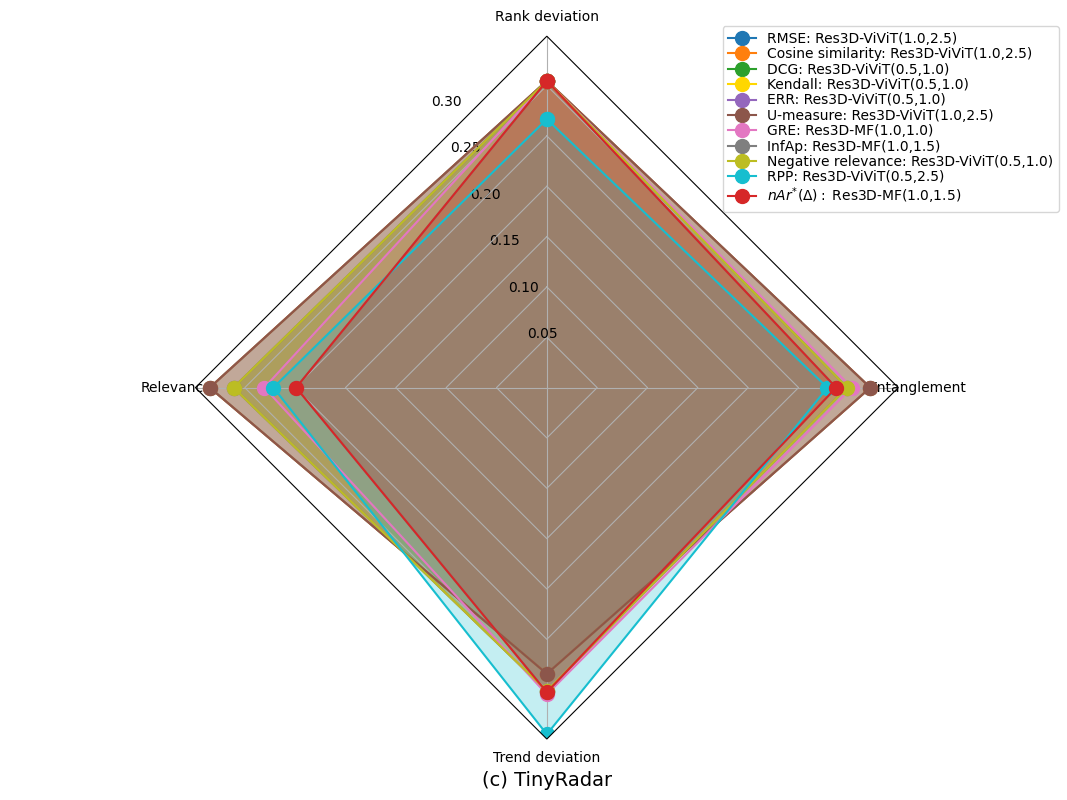
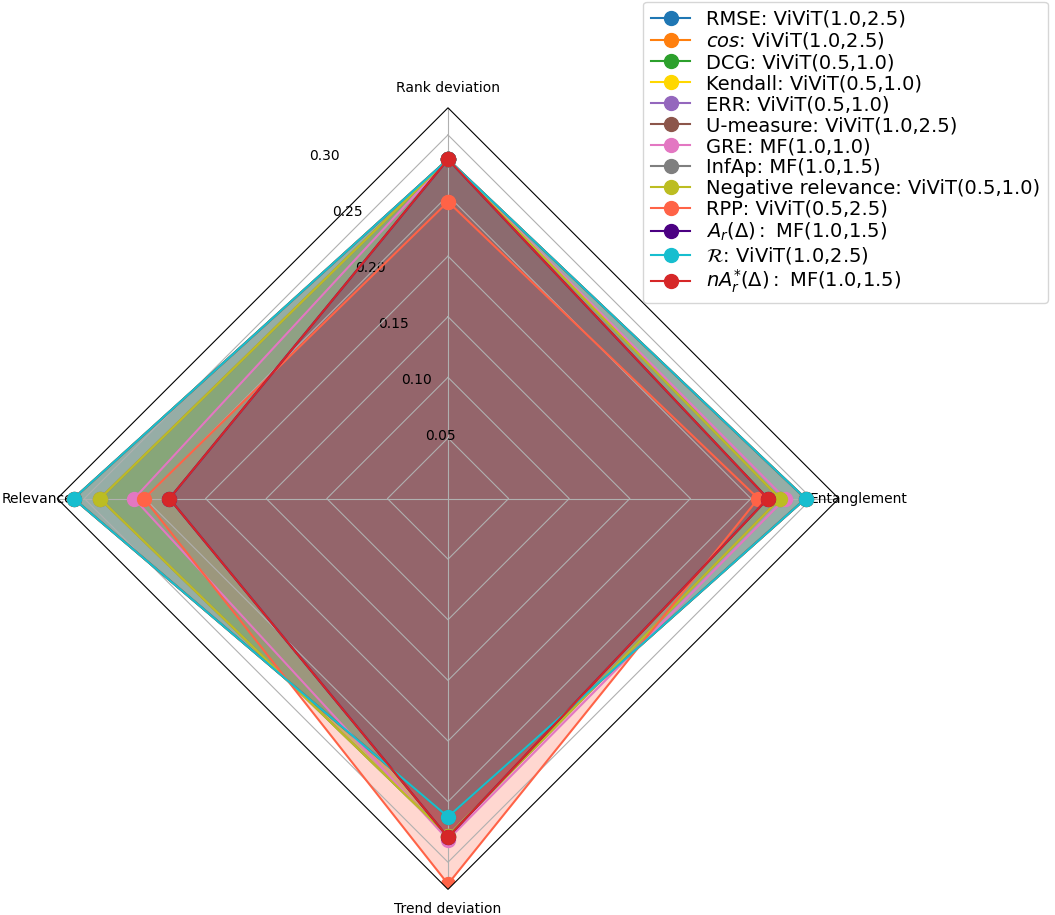
Added new images

diff --git a/radar_charts.py b/radar_charts.py
@@ -12,13 +12,135 @@ kappa = 1
 lambda_scale = 2
 nu = 1
 
-e1_val = 100 - 16.45
-e2_val = 100 - 23.36 
-e1 = np.array([16.38,22.19,21.60,11.61,9.24,8.95,14.58,14.45,17.30,9.25,35.47])
-e2 = np.array([21.12,26.42,32.30,20.34,18.18,17.33,19.81,24.45,25.70,11.52,39.81])
-eer_values = (e1_val*e1+e2_val*e2)/(e1_val+e2_val)
+dataset_curr = 'Tiny'
 
-embedding_list_full = ['./Embeddings/DGBQA_CGID_Res3D-ViViT_pt5-1_Tiny.npz',
+if(dataset_curr == 'Soli'):
+    y_dev_path = './Embeddings/y_dev_DeltaDistance_SOLI.npz'
+    y_dev_id_path = './Embeddings/y_dev_id_DeltaDistance_SOLI.npz'
+    G_total = 11
+    I_total = 10
+    eer_values = np.array([15.60,14.33,8.98,14.33,4.83,4.74,7.13,7.60,8.15,5.94,18.63])
+
+if(dataset_curr == 'HandLogin'):
+    y_dev_path = './Embeddings/y_dev_DGBQA_Seen_HandLogin.npz'
+    y_dev_id_path = './Embeddings/y_dev_id_DGBQA_Seen_HandLogin.npz'
+    G_total = 4
+    I_total = 16
+    eer_values = np.array([0.44,1.29,4.89,1.05])
+
+if(dataset_curr == 'Tiny'):
+    y_dev_path = './Embeddings/y_dev_DGBQA_Seen_Tiny.npz'
+    y_dev_id_path = './Embeddings/y_dev_id_DGBQA_Seen_Tiny.npz'
+    G_total = 11
+    I_total = 26
+
+    e1_val = 100 - 16.45
+    e2_val = 100 - 23.36 
+    e1 = np.array([16.38,22.19,21.60,11.61,9.24,8.95,14.58,14.45,17.30,9.25,35.47])
+    e2 = np.array([21.12,26.42,32.30,20.34,18.18,17.33,19.81,24.45,25.70,11.52,39.81])
+    eer_values = (e1_val*e1+e2_val*e2)/(e1_val+e2_val)
+    eer_values = eer_values
+
+##### Defining essentials
+embedding_list_soli = ['./Embeddings/DGBQA_CGID_Res3D-ViViT_pt5-pt5_SOLI.npz',
+                       './Embeddings/DGBQA_CGID_Res3D-ViViT_pt5-1_SOLI.npz',
+                       './Embeddings/DGBQA_CGID_Res3D-ViViT_pt5-1pt5_SOLI.npz',
+                       './Embeddings/DGBQA_CGID_Res3D-ViViT_1-pt5_SOLI.npz',
+                       './Embeddings/DGBQA_CGID_Res3D-ViViT_1-1_SOLI.npz',
+                       './Embeddings/DGBQA_CGID_Res3D-ViViT_1-1pt5_SOLI.npz',
+                       './Embeddings/DGBQA_CGID_Res3D-ViViT_1pt5-pt5_SOLI.npz',
+                       './Embeddings/DGBQA_CGID_Res3D-ViViT_1pt5-1_SOLI.npz',
+                       './Embeddings/DGBQA_CGID_Res3D-ViViT_1pt5-1pt5_SOLI.npz',
+                        './Embeddings/DGBQA_CGID_Res3D-MF_pt5-pt5_SOLI.npz',
+                        './Embeddings/DGBQA_CGID_Res3D-MF_pt5-1_SOLI.npz',
+                        './Embeddings/DGBQA_CGID_Res3D-MF_pt5-1pt5_SOLI.npz',
+                        './Embeddings/DGBQA_CGID_Res3D-MF_1-pt5_SOLI.npz',
+                        './Embeddings/DGBQA_CGID_Res3D-MF_1-1_SOLI.npz',
+                        './Embeddings/DGBQA_CGID_Res3D-MF_1-1pt5_SOLI.npz',
+                        './Embeddings/DGBQA_CGID_Res3D-MF_1pt5-pt5_SOLI.npz',
+                        './Embeddings/DGBQA_CGID_Res3D-MF_1pt5-1_SOLI.npz',
+                        './Embeddings/DGBQA_CGID_Res3D-MF_1pt5-1pt5_SOLI.npz',
+                        './Embeddings/MS_TPN_pt5-pt5_SOLI.npz',
+                        './Embeddings/MS_TPN_pt5-1_SOLI.npz',
+                        './Embeddings/MS_TPN_pt5-1pt5_SOLI.npz',
+                        './Embeddings/MS_TPN_1-pt5_SOLI.npz',
+                        './Embeddings/MS_TPN_1-1_SOLI.npz',
+                        './Embeddings/MS_TPN_1-1pt5_SOLI.npz',
+                        './Embeddings/MS_TPN_1pt5-pt5_SOLI.npz',
+                        './Embeddings/MS_TPN_1pt5-1_SOLI.npz',
+                        './Embeddings/MS_TPN_1pt5-1pt5_SOLI.npz',
+                        './Embeddings/MS_TAM_pt5-pt5_SOLI.npz',
+                        './Embeddings/MS_TAM_1-pt5_SOLI.npz',
+                        './Embeddings/MS_TAM_1-1_SOLI.npz',
+                        './Embeddings/MS_MViT_pt5-pt5_SOLI.npz',
+                        './Embeddings/MS_MViT_pt5-1_SOLI.npz',
+                        './Embeddings/MS_MViT_pt5-1pt5_SOLI.npz',
+                        './Embeddings/MS_MViT_1-pt5_SOLI.npz',
+                        './Embeddings/MS_MViT_1-1_SOLI.npz',
+                        './Embeddings/MS_MViT_1-1pt5_SOLI.npz',
+                        './Embeddings/MS_MViT_1pt5-pt5_SOLI.npz',
+                        './Embeddings/MS_MViT_1pt5-1_SOLI.npz',
+                        './Embeddings/MS_MViT_1pt5-1pt5_SOLI.npz']
+dataset_list_soli = ['Soli']*39
+
+embedding_list_hl = ['./Embeddings/MS_ViViT_pt5-pt5_HandLogin.npz',
+                       './Embeddings/MS_ViViT_pt5-1_HandLogin.npz',
+                       './Embeddings/MS_ViViT_pt5-1pt5_HandLogin.npz',
+                       './Embeddings/MS_ViViT_pt5-2pt5_HandLogin.npz',
+                       './Embeddings/MS_ViViT_1-pt5_HandLogin.npz',
+                       './Embeddings/MS_ViViT_1-1_HandLogin.npz',
+                       './Embeddings/MS_ViViT_1-1pt5_HandLogin.npz',
+                       './Embeddings/MS_ViViT_1-2pt5_HandLogin.npz',
+                       './Embeddings/MS_ViViT_1pt5-pt5_HandLogin.npz',
+                       './Embeddings/MS_ViViT_1pt5-1_HandLogin.npz',
+                       './Embeddings/MS_ViViT_1pt5-1pt5_HandLogin.npz',
+                       './Embeddings/MS_ViViT_1pt5-2pt5_HandLogin.npz',
+                        './Embeddings/Test/DGBQA_CGID_Res3D-MF_1-pt5_HandLogin.npz',
+                        './Embeddings/Test/DGBQA_CGID_Res3D-MF_1-1_HandLogin.npz',
+                        './Embeddings/Test/DGBQA_CGID_Res3D-MF_1-1pt5_HandLogin.npz',
+                        './Embeddings/Test/DGBQA_CGID_Res3D-MF_1-2pt5_HandLogin.npz',
+                        './Embeddings/Test/DGBQA_CGID_Res3D-MF_1pt5-pt5_HandLogin.npz',
+                        './Embeddings/Test/DGBQA_CGID_Res3D-MF_1pt5-1_HandLogin.npz',
+                        './Embeddings/Test/DGBQA_CGID_Res3D-MF_1pt5-1pt5_HandLogin.npz',
+                        './Embeddings/Test/DGBQA_CGID_Res3D-MF_1pt5-2pt5_HandLogin.npz',
+                        './Embeddings/MS_TPN_pt5-pt5_HandLogin.npz',
+                        './Embeddings/MS_TPN_pt5-1_HandLogin.npz',
+                        './Embeddings/MS_TPN_pt5-1pt5_HandLogin.npz',
+                        './Embeddings/MS_TPN_pt5-2pt5_HandLogin.npz',
+                        './Embeddings/MS_TPN_1-pt5_HandLogin.npz',
+                        './Embeddings/MS_TPN_1-1pt5_HandLogin.npz',
+                        './Embeddings/MS_TPN_1-2pt5_HandLogin.npz',
+                        './Embeddings/MS_TPN_1pt5-pt5_HandLogin.npz',
+                        './Embeddings/MS_TPN_1pt5-1_HandLogin.npz',
+                        './Embeddings/MS_TPN_1pt5-1pt5_HandLogin.npz',
+                        './Embeddings/MS_TPN_1pt5-2pt5_HandLogin.npz',
+                        './Embeddings/MS_TAM_pt5-pt5_HandLogin.npz',
+                        './Embeddings/MS_TAM_pt5-1_HandLogin.npz',
+                        './Embeddings/MS_TAM_pt5-1pt5_HandLogin.npz',
+                        './Embeddings/MS_TAM_pt5-2pt5_HandLogin.npz',
+                        './Embeddings/MS_TAM_1-pt5_HandLogin.npz',
+                        './Embeddings/MS_TAM_1-1_HandLogin.npz',
+                        './Embeddings/MS_TAM_1-1pt5_HandLogin.npz',
+                        './Embeddings/MS_TAM_1-2pt5_HandLogin.npz',
+                        './Embeddings/MS_TAM_1pt5-pt5_HandLogin.npz',
+                        './Embeddings/MS_TAM_1pt5-1_HandLogin.npz',
+                        './Embeddings/MS_TAM_1pt5-1pt5_HandLogin.npz',
+                        './Embeddings/MS_TAM_1pt5-2pt5_HandLogin.npz',
+                        './Embeddings/MS_MViT_pt5-pt5_HandLogin.npz',
+                        './Embeddings/MS_MViT_pt5-1_HandLogin.npz',
+                        './Embeddings/MS_MViT_pt5-1pt5_HandLogin.npz',
+                        './Embeddings/MS_MViT_pt5-2pt5_HandLogin.npz',
+                        './Embeddings/MS_MViT_1-pt5_HandLogin.npz',
+                        './Embeddings/MS_MViT_1-1_HandLogin.npz',
+                        './Embeddings/MS_MViT_1-1pt5_HandLogin.npz',
+                        './Embeddings/MS_MViT_1-2pt5_HandLogin.npz',
+                        './Embeddings/MS_MViT_1pt5-pt5_HandLogin.npz',
+                        './Embeddings/MS_MViT_1pt5-1_HandLogin.npz',
+                        './Embeddings/MS_MViT_1pt5-1pt5_HandLogin.npz',
+                        './Embeddings/MS_MViT_1pt5-2pt5_HandLogin.npz']
+dataset_list_hl = ['HandLogin']*55
+
+embedding_list_tiny = ['./Embeddings/DGBQA_CGID_Res3D-ViViT_pt5-1_Tiny.npz',
                        './Embeddings/DGBQA_CGID_Res3D-ViViT_pt5-1pt5_Tiny.npz',
                        './Embeddings/DGBQA_CGID_Res3D-ViViT_pt5-2pt5_Tiny.npz',
                        './Embeddings/DGBQA_CGID_Res3D-ViViT_1-1_Tiny.npz',
@@ -30,46 +152,66 @@ embedding_list_full = ['./Embeddings/DGBQA_CGID_Res3D-ViViT_pt5-1_Tiny.npz',
                        './Embeddings/MS_TAM_1-1_Tiny.npz',
                        './Embeddings/MS_TAM_1-1pt5_Tiny.npz',
                        './Embeddings/MS_TAM_1-2pt5_Tiny.npz']
-
-dataset_list = ['Tiny']*12
-y_dev_path = './Embeddings/y_dev_DGBQA_Seen_Tiny.npz'
-y_dev_id_path = './Embeddings/y_dev_id_DGBQA_Seen_Tiny.npz'
+dataset_list_tiny = ['Tiny']*12
 
 model_list = []
 
-#for measure in ['euclid','corr','DCG','Kendall','ERR','U','GRE','infAp','NegRel','RPP','Ar*']:
-#    model_list.append(select_model(embedding_list_full,
-#                                   dataset_list,
-#                                   measure
-#                                   ))
-#print(model_list)
+for measure in ['r','R','psi','Cd','Ar','ArCd','Ar_psi','Cd_psi','Ar*']:
+    model_list.append(select_model(embedding_list_tiny,
+                                   dataset_list_tiny,
+                                   measure
+                                   ))
+print(model_list)
 
-#model_list = ['./Embeddings/MS_TPN_1pt5-1_SOLI.npz', './Embeddings/MS_TPN_1pt5-1_SOLI.npz', './Embeddings/DGBQA_CGID_Res3D-ViViT_1-1_SOLI.npz', './Embeddings/DGBQA_CGID_Res3D-ViViT_1pt5-1_SOLI.npz', './Embeddings/DGBQA_CGID_Res3D-MF_1-1_SOLI.npz', './Embeddings/DGBQA_CGID_Res3D-MF_1-1pt5_SOLI.npz', './Embeddings/DGBQA_CGID_Res3D-MF_1pt5-pt5_SOLI.npz', './Embeddings/DGBQA_CGID_Res3D-ViViT_1pt5-pt5_SOLI.npz', './Embeddings/DGBQA_CGID_Res3D-ViViT_1-1pt5_SOLI.npz', './Embeddings/MS_MViT_pt5-1_SOLI.npz', './Embeddings/MS_MViT_pt5-1_SOLI.npz']
-model_list = ['./Embeddings/DGBQA_CGID_Res3D-ViViT_1-2pt5_Tiny.npz', './Embeddings/DGBQA_CGID_Res3D-ViViT_1-2pt5_Tiny.npz', './Embeddings/DGBQA_CGID_Res3D-ViViT_pt5-1_Tiny.npz', './Embeddings/DGBQA_CGID_Res3D-ViViT_pt5-1_Tiny.npz', './Embeddings/DGBQA_CGID_Res3D-ViViT_pt5-1_Tiny.npz', './Embeddings/DGBQA_CGID_Res3D-ViViT_1-2pt5_Tiny.npz', './Embeddings/MS_MF_1-1_Tiny.npz', './Embeddings/MS_MF_1-1pt5_Tiny.npz', './Embeddings/DGBQA_CGID_Res3D-ViViT_pt5-1_Tiny.npz', './Embeddings/DGBQA_CGID_Res3D-ViViT_pt5-2pt5_Tiny.npz', './Embeddings/MS_MF_1-1pt5_Tiny.npz']
+#model_list = ['./Embeddings/MS_TPN_1pt5-1_SOLI.npz', 
+#              './Embeddings/MS_TPN_1pt5-1_SOLI.npz', 
+#              './Embeddings/DGBQA_CGID_Res3D-ViViT_1-1_SOLI.npz', 
+#              './Embeddings/DGBQA_CGID_Res3D-ViViT_1pt5-1_SOLI.npz', 
+#              './Embeddings/DGBQA_CGID_Res3D-MF_1-1_SOLI.npz', 
+#              './Embeddings/DGBQA_CGID_Res3D-MF_1-1pt5_SOLI.npz', 
+#              './Embeddings/DGBQA_CGID_Res3D-MF_1pt5-pt5_SOLI.npz', 
+#              './Embeddings/DGBQA_CGID_Res3D-ViViT_1pt5-pt5_SOLI.npz', 
+#              './Embeddings/DGBQA_CGID_Res3D-ViViT_1-1pt5_SOLI.npz', 
+#              './Embeddings/MS_MViT_pt5-1_SOLI.npz',
+#              './Embeddings/DGBQA_CGID_Res3D-ViViT_1pt5-pt5_SOLI.npz',
+#              './Embeddings/DGBQA_CGID_Res3D-MF_1pt5-pt5_SOLI.npz',
+#              './Embeddings/MS_MViT_pt5-1_SOLI.npz']
+
+#model_list = ['./Embeddings/DGBQA_CGID_Res3D-ViViT_1-2pt5_Tiny.npz', 
+#              './Embeddings/DGBQA_CGID_Res3D-ViViT_1-2pt5_Tiny.npz', 
+#              './Embeddings/DGBQA_CGID_Res3D-ViViT_pt5-1_Tiny.npz', 
+#              './Embeddings/DGBQA_CGID_Res3D-ViViT_pt5-1_Tiny.npz', 
+#              './Embeddings/DGBQA_CGID_Res3D-ViViT_pt5-1_Tiny.npz', 
+#              './Embeddings/DGBQA_CGID_Res3D-ViViT_1-2pt5_Tiny.npz', 
+#              './Embeddings/MS_MF_1-1_Tiny.npz', 
+#              './Embeddings/MS_MF_1-1pt5_Tiny.npz', 
+#              './Embeddings/DGBQA_CGID_Res3D-ViViT_pt5-1_Tiny.npz', 
+#              './Embeddings/DGBQA_CGID_Res3D-ViViT_pt5-2pt5_Tiny.npz', 
+#              './Embeddings/DGBQA_CGID_Res3D-ViViT_1-2pt5_Tiny.npz',
+#              './Embeddings/MS_MF_1-1pt5_Tiny.npz']
+              
 data = get_data(model_list,
                 y_dev_path,
                 y_dev_id_path,
                 eer_values,
-                11,
-                26,
+                G_total,
+                I_total,
                 alpha=2,
                 beta=0.75,
                 lambda_scale=2,
                 kappa=1,
                 nu=1,
-                num_entries=11)
+                num_entries=9)
 N = 4
 theta = radar_factory(N, frame='polygon')
 colors = ['tab:blue',
           'tab:orange',
           'tab:green',
-          'gold',
           'tab:purple',
-          'tab:brown',
-          'tab:pink',
           'tab:gray',
           'tab:olive',
-          'tab:cyan',
+          'indigo',
+          'tab:cyan',  
           'tab:red']
 spoke_labels = data.pop(0)
 #print(data)
@@ -83,18 +225,15 @@ for d, color in zip(data, colors):
 ax.set_varlabels(spoke_labels)
 ax.set_xlabel('(c) TinyRadar',fontsize=14)
 
-labels = ('RMSE:'+' Res3D-ViViT(1.0,2.5)',
-          'Cosine similarity:'+' Res3D-ViViT(1.0,2.5)',
-          'DCG:'+' Res3D-ViViT(0.5,1.0)',
-          'Kendall:'+' Res3D-ViViT(0.5,1.0)',
-          'ERR:'+' Res3D-ViViT(0.5,1.0)',
-          'U-measure:'+' Res3D-ViViT(1.0,2.5)',
-          'GRE:'+' Res3D-MF(1.0,1.0)',
-          'InfAp:'+' Res3D-MF(1.0,1.5)',
-          'Negative relevance:'+' Res3D-ViViT(0.5,1.0)',
-          'RPP:'+' Res3D-ViViT(0.5,2.5)',
-          '$nAr^{*}(\Delta):$'+' Res3D-MF(1.0,1.5)'
-          )
+labels = ['$\\mathcal{r}$: ViViT(0.5,1.5)',
+          '$\\mathcal{R}$: ViViT(1.0,2.5)',
+          '$\\psi$: TAM(1.0,1.0)',
+          '$C_{d}$: ViViT(0.5,2.5)',
+          '$A_r(\Delta)$: MF(1.0,1.5)',
+          '$A_r(\Delta)*\\bar{O}$: MF(1.0,1.5)',
+          '$A_r(\Delta)*\\bar{\psi}$: MF(1.0,1.5)',
+          '$\\bar{\psi}*\\bar{O}$: MF(1.0,1.5)',
+          '$nA_r^{*}(\Delta)$: MF(1.0,1.5)']
 
 legend = ax.legend(labels,
                    loc=(0.75,0.75),

diff --git a/TableGen.py b/TableGen.py
@@ -126,7 +126,7 @@ embedding_list_tiny = ['./Embeddings/DGBQA_CGID_Res3D-ViViT_pt5-1_Tiny.npz',
 dataset_list_tiny = ['Tiny']*12
 
 
-dataset_curr = 'Tiny'
+dataset_curr = 'Soli'
 
 if(dataset_curr == 'Soli'):
     y_dev = np.load('./Embeddings/y_dev_DeltaDistance_SOLI.npz')['arr_0']
@@ -156,8 +156,8 @@ if(dataset_curr == 'Tiny'):
     eer_values = list(eer_values)
 
 ##### Model selection and prediction
-model = select_model(embedding_list_tiny,
-                     dataset_list_tiny,
+model = select_model(embedding_list_soli,
+                     dataset_list_soli,
                      args.metric)
 print(model)
 
